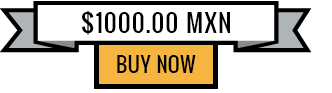
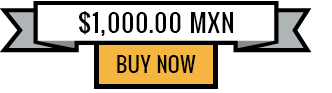
fix quantities separators

Changed region(s): [[0.241, 0.1075, 0.7229, 0.3871]]

diff --git a/app/assets/stylesheets/home.css.scss b/app/assets/stylesheets/home.css.scss
@@ -151,6 +151,7 @@ section#speakers {
     // height: 500px;
     margin-bottom: 250px;
     h2 {
+      font-family: oswald;
       display: inline-block;
       color: white;
       background: black;
